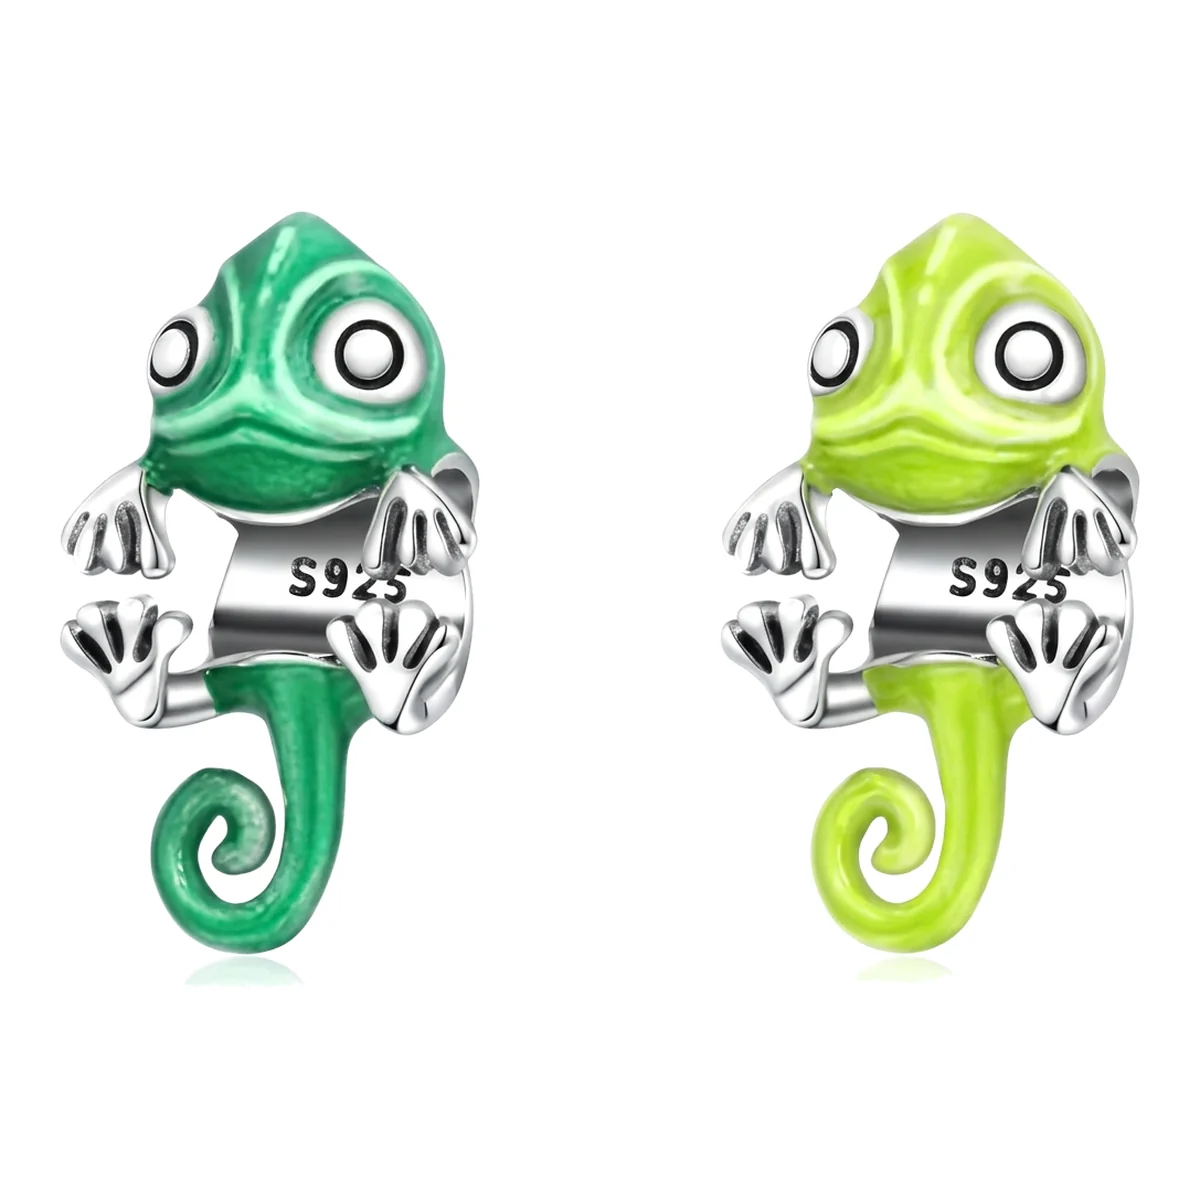
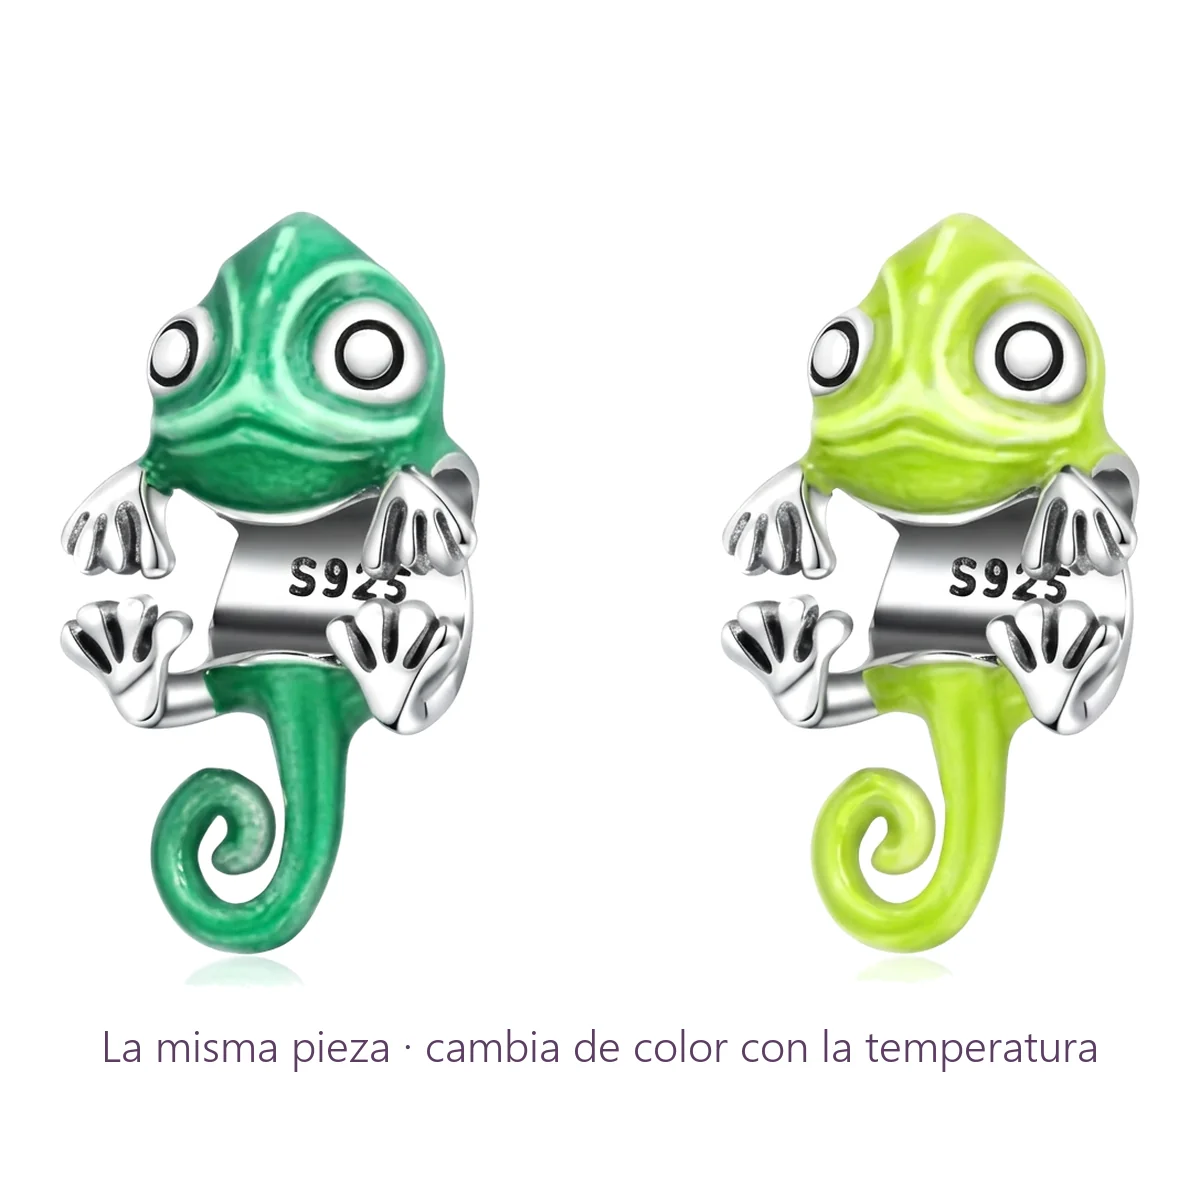
Camaleón: la foto y la ficha explican que es una pieza que cambia de color
La foto muestra el mismo charm en sus dos tonos y se leía como dos piezas
(propietario, 2026-10-09). Texto sobre la foto («La misma pieza · cambia de
color con la temperatura», fotos_hd.py ANOTACIONES) y nota en la descripción
(gen_productos.py NOTAS_PIEZA). Solo lo que dijo el propietario: cambia con
la temperatura; no se afirma de qué color llega.

Claude-Session: https://claude.ai/code/session_01W4RsyiqvSJqQsVyuwmuYtL

Changed region(s): [[0.0925, 0.8633, 0.925, 0.8942]]

diff --git a/producto-camaleon-verde.html b/producto-camaleon-verde.html
@@ -210,7 +210,7 @@ src="https://www.facebook.com/tr?id=2130673404542988&ev=PageView&noscript=1"/></
         <li><svg viewBox="0 0 24 24" width="20" height="20" fill="none" stroke="currentColor" stroke-width="1.5" stroke-linejoin="round" aria-hidden="true"><rect x="3.5" y="9" width="17" height="11" rx="1"/><path d="M12 9v11M3.5 13h17M12 9C10 5 6.5 5.5 7.5 8c.6 1.4 4.5 1 4.5 1s3.9.4 4.5-1C17.5 5.5 14 5 12 9"/></svg>Empaque de regalo: caja, paño y dedicatoria escrita a mano</li>
         <li><svg viewBox="0 0 24 24" width="20" height="20" fill="none" stroke="currentColor" stroke-width="1.5" stroke-linejoin="round" aria-hidden="true"><path d="M4 9h13l-3-3M20 15H7l3 3"/></svg>Cambio de talla o retracto en 5 días hábiles</li>
       </ul>
-      <details class="pp-acc" open><summary>Descripción</summary><div class="pp-acc-in"><p>Colección Símbolos.</p><p id="pp-desc"></p></div></details>
+      <details class="pp-acc" open><summary>Descripción</summary><div class="pp-acc-in"><p>Colección Símbolos.</p><p class="pp-nota">Cambia de color con la temperatura. En la foto ves <b>la misma pieza en sus dos tonos</b>: recibes un solo charm.</p><p id="pp-desc"></p></div></details>
       <details class="pp-acc"><summary>Materiales</summary><div class="pp-acc-in"><dl class="fx-specs" id="pp-specs"></dl></div></details>
       <details class="pp-acc"><summary>Envíos gratis</summary><div class="pp-acc-in"><p>Envío <b>gratis</b> a toda Colombia pagando en línea. Enviamos por Inter Rapidísimo, y los tiempos se cuentan en días hábiles desde que despachamos: Bogotá 1 día; municipios cercanos a Bogotá 1 – 2; ciudades principales 2 – 4; resto del país 3 – 6. Te mandamos el número de guía por WhatsApp o correo.</p></div></details>
       <details class="pp-acc"><summary>Contraentrega</summary><div class="pp-acc-in"><p>También puedes pagar al recibir, en efectivo al mensajero. El envío contraentrega cuesta $20.000: lo cobra la transportadora al recaudar.</p></div></details>

diff --git a/herramientas/gen_productos.py b/herramientas/gen_productos.py
@@ -429,7 +429,16 @@ def beneficios(tipo, cat):
                      for k, t in items)
 
 
-def acordeones(tipo, meta, grupo, cat):
+# Lo que la foto sola no explica (pedido del propietario, 2026-10-09: la foto del
+# Camaleón muestra dos camaleones y se puede leer como dos piezas). Solo hechos
+# que dio el propietario; sin inventar de qué color llega.
+NOTAS_PIEZA = {
+    'camaleon-verde': 'Cambia de color con la temperatura. En la foto ves <b>la misma pieza en sus dos '
+                      'tonos</b>: recibes un solo charm.',
+}
+
+
+def acordeones(tipo, meta, grupo, cat, pid=None):
     """Descripción · Materiales · Envíos · Contraentrega · Cuidados. Los textos
     salen de lo que el sitio ya publica en preguntas-frecuentes.html; no se
     inventa ni se amplía una promesa aquí. La ficha técnica (#pp-specs) y la
@@ -454,8 +463,9 @@ def acordeones(tipo, meta, grupo, cat):
                 '<li><b>Guardado ideal:</b> guárdala en su caja, en un lugar seco, cuando no la uses.</li>'
                 '<li><b>Limpieza:</b> límpiala frotándola suavemente con un paño seco para joyería.</li></ul>')
     secciones = [
-        ('Descripción', '<p>%s.</p><p id="pp-desc"></p>' % (
-            H.escape('Brazalete %s' % meta.lower()) if tipo == 'brazalete' else 'Colección %s' % H.escape(grupo)), True),
+        ('Descripción', '<p>%s.</p>%s<p id="pp-desc"></p>' % (
+            H.escape('Brazalete %s' % meta.lower()) if tipo == 'brazalete' else 'Colección %s' % H.escape(grupo),
+            '<p class="pp-nota">%s</p>' % NOTAS_PIEZA[pid] if pid in NOTAS_PIEZA else ''), True),
         ('Materiales', '<dl class="fx-specs" id="pp-specs"></dl>', False),
         ('Envíos gratis', '<p>Envío <b>gratis</b> a toda Colombia pagando en línea. Enviamos por Inter Rapidísimo, y los '
                           'tiempos se cuentan en días hábiles desde que despachamos: Bogotá 1 día; municipios cercanos '
@@ -631,7 +641,7 @@ def generar(pid, html, cat, stock, b, exigidos):
                                         if c != pid and c in cat['precios'] and c not in cat['pulseras']
                                         and not c.startswith('letra-') and (unidades(stock.get(c)) or 0) > 0))[:16],
                                     precio),
-        beneficios=beneficios(tipo, cat), acordeones=acordeones(tipo, meta, grupo, cat),
+        beneficios=beneficios(tipo, cat), acordeones=acordeones(tipo, meta, grupo, cat, pid),
         bloque_letras=tira_letras(pid, cat) if tipo == 'inicial' else '', rel_eyebrow=H.escape(rel_eyebrow),
         rel_titulo=H.escape(rel_titulo),
         tarjetas_rel='\n'.join('      ' + t for t in tarjetas(html, rel)),

diff --git a/herramientas/fotos_hd.py b/herramientas/fotos_hd.py
@@ -32,6 +32,9 @@ BLANCO, GRIS, KIE = MSP / 'fotos-mejoradas-blanco', MSP / 'fotos-mejoradas', MSP
 ASSETS, HD = RAIZ / 'assets', RAIZ / 'assets' / 'hd'
 OCUPA = 0.90
 LADO_HD, LADO_REJILLA = 1200, 600
+# Texto sobre la foto cuando la foto sola se presta a confusión (pedido del
+# propietario, 2026-10-09): el Camaleón sale en sus dos tonos y parecen dos piezas.
+ANOTACIONES = {'camaleon-verde': 'La misma pieza · cambia de color con la temperatura'}
 
 
 def fondo_blanco(im, tol=28):
@@ -76,6 +79,25 @@ def a_blanco(im):
     return Image.merge('RGB', [c.point(lambda v, g=f[i]: min(255, round(v * 255 / g))) for i, c in enumerate(im.split())])
 
 
+def anotar(im, texto):
+    """Una línea centrada abajo, en el morado de la marca, sobre el blanco que
+    deja el encuadre al 90 %. Se escala con la foto: en la rejilla de 600 px
+    queda a la mitad."""
+    from PIL import ImageFont
+    im = im.copy(); d = ImageDraw.Draw(im)
+    tam = 44
+    f = ImageFont.truetype('segoeuisl.ttf', tam)
+    while d.textlength(texto, font=f) > im.width * 0.9 and tam > 20:
+        tam -= 2; f = ImageFont.truetype('segoeuisl.ttf', tam)
+    w = d.textlength(texto, font=f)
+    # Debajo de la joya: busca la última fila con producto y deja aire.
+    gris = im.convert('L').point(lambda v: 255 if v < 235 else 0)
+    caja = gris.getbbox() or (0, 0, im.width, int(im.height * .75))
+    y = min(im.height - tam - 40, caja[3] + 40)
+    d.text(((im.width - w) / 2, y), texto, fill=(92, 61, 99), font=f)
+    return im
+
+
 def guardar(im, destino, limite_kb):
     for q in (86, 82, 78, 74, 70):
         im.save(destino, 'webp', quality=q, method=6)
@@ -102,6 +124,8 @@ def main():
                 grande = grande.resize((LADO_HD, LADO_HD), Image.LANCZOS)
         else:
             faltan.append(archivo); continue
+        if stem in ANOTACIONES:
+            grande = anotar(grande, ANOTACIONES[stem])
         q1 = guardar(grande, HD / f'{stem}.webp', 110)
         q2 = guardar(grande.resize((LADO_REJILLA, LADO_REJILLA), Image.LANCZOS), ASSETS / f'{stem}.webp', 38)
         print(f'{stem:40s} hd {(HD / (stem + ".webp")).stat().st_size // 1024:4d} KB q{q1} · '
